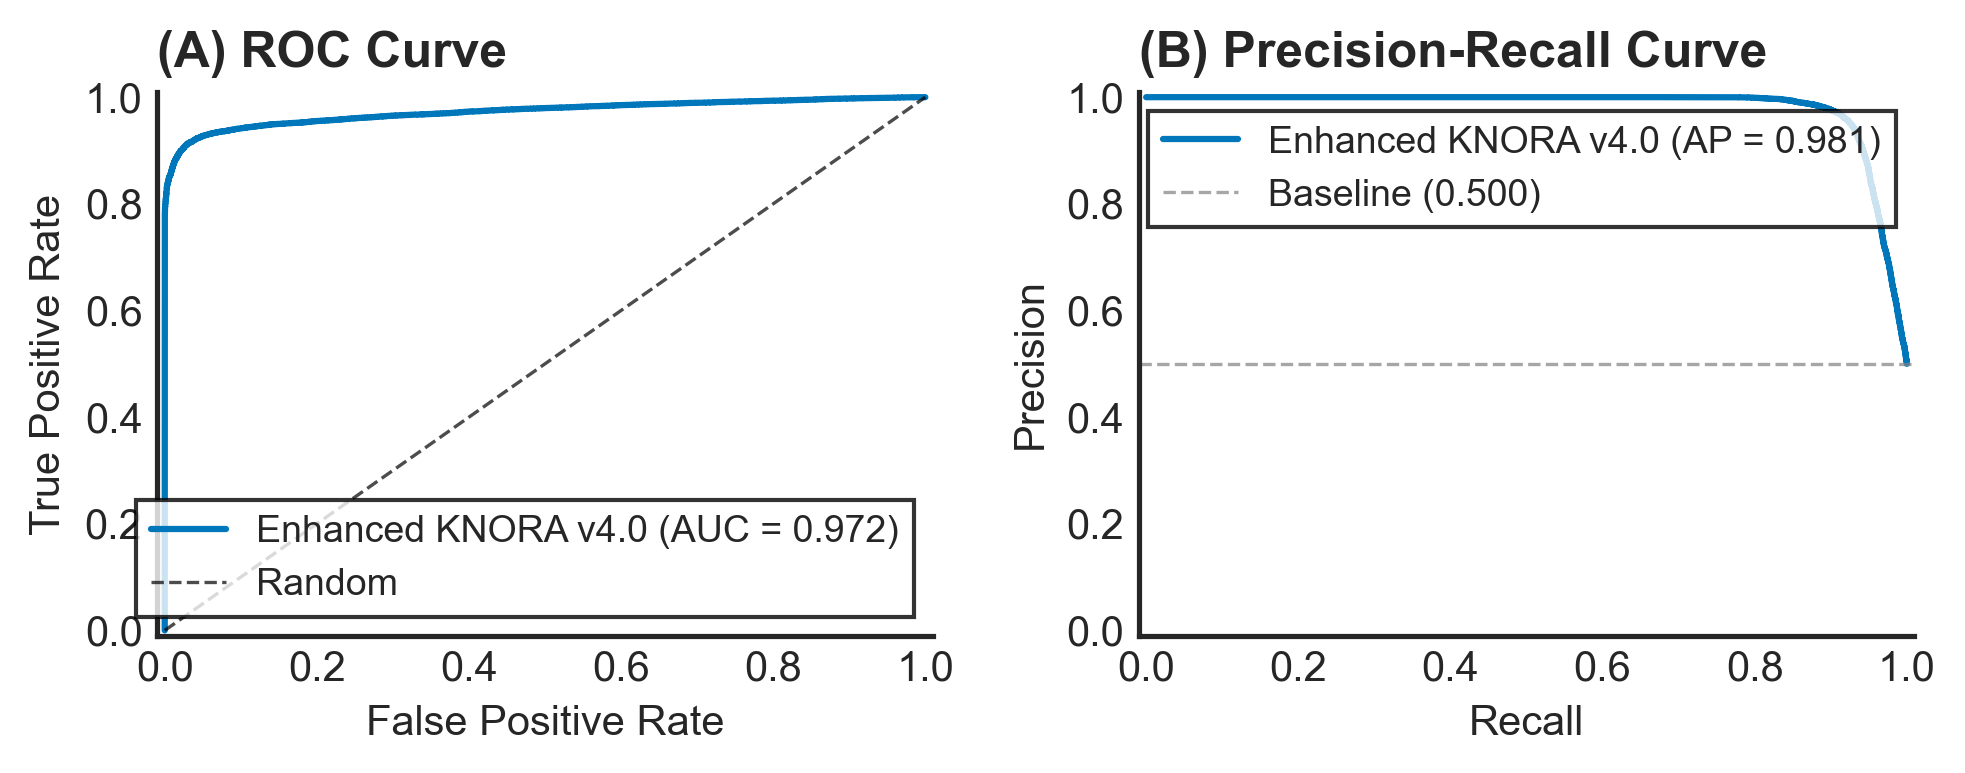
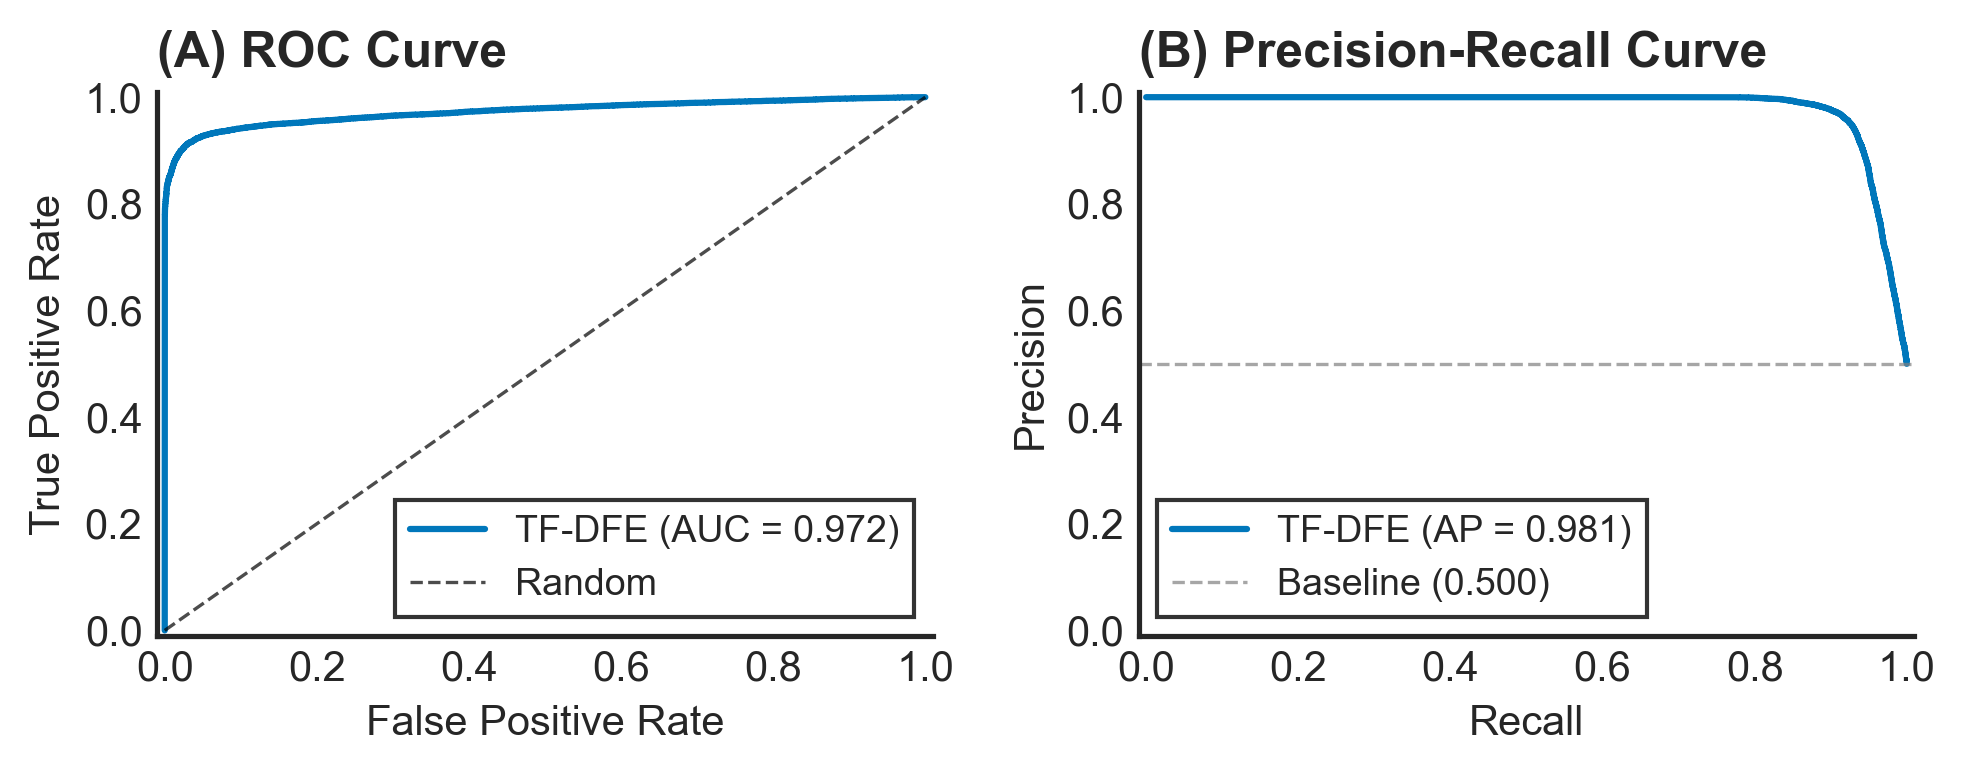
Update legend positions and font sizes in various plots for better readability

diff --git a/src/08_tda_fuzzy_ensemble.py b/src/08_tda_fuzzy_ensemble.py
@@ -760,7 +760,7 @@ def compute_pairwise_diversity(
         annot_kws={"size": 4},
     )
     axes[0].set_title(
-        "(A) Q-Statistic\n(−1=diverse, +1=correlated)", fontweight="bold", loc="left"
+        "(A) Q-Statistic\n(−1=diverse, +1=correlated)", fontweight="bold", loc="left", fontsize=9
     )
     plt.setp(
         axes[0].get_xticklabels(),
@@ -785,6 +785,7 @@ def compute_pairwise_diversity(
         "(B) Pairwise Disagreement Rate\n(higher=more diverse)",
         fontweight="bold",
         loc="left",
+        fontsize=9
     )
     plt.setp(
         axes[1].get_xticklabels(),
@@ -1739,7 +1740,7 @@ def plot_roc_pr_curves(y_true, y_pred_proba, model_name, output_dir):
     ax1.set_xlabel("False Positive Rate")
     ax1.set_ylabel("True Positive Rate")
     ax1.set_title("(A) ROC Curve", fontweight="bold", loc="left")
-    ax1.legend(loc="lower right", frameon=True, fancybox=False, edgecolor="black")
+    ax1.legend(loc="best", frameon=True, fancybox=False, edgecolor="black")
     ax1.set_xlim([-0.01, 1.01])
     ax1.set_ylim([-0.01, 1.01])
     ax1.grid(False)
@@ -1764,7 +1765,7 @@ def plot_roc_pr_curves(y_true, y_pred_proba, model_name, output_dir):
     ax2.set_xlabel("Recall")
     ax2.set_ylabel("Precision")
     ax2.set_title("(B) Precision-Recall Curve", fontweight="bold", loc="left")
-    ax2.legend(loc="upper right", frameon=True, fancybox=False, edgecolor="black")
+    ax2.legend(loc="lower left", frameon=True, fancybox=False, edgecolor="black")
     ax2.set_xlim([-0.01, 1.01])
     ax2.set_ylim([-0.01, 1.01])
     ax2.grid(False)
@@ -1850,7 +1851,7 @@ def plot_tsne(X, y, title, output_dir):
     ax.set_ylabel("t-SNE Dimension 2")
     ax.set_title(title, fontweight="bold")
     ax.legend(
-        title="Class", loc="best", frameon=True, fancybox=False, edgecolor="black"
+        title="Class", bbox_to_anchor=(1.05, 1), loc="upper left", frameon=True, fancybox=False, edgecolor="black"
     )
     plt.tight_layout()
     plt.savefig(output_dir / "Fig_tSNE_TFDFE.png", dpi=FIG_DPI, bbox_inches="tight")
@@ -1996,7 +1997,7 @@ class TFDFEvaluator:
         ax1.set_xlim([-0.02, 1.02])
         ax1.set_ylim([-0.02, 1.02])
         ax1.set_title("Calibration Plot", fontweight="bold", loc="left")
-        ax1.legend(loc="upper left", frameon=True, fancybox=False, edgecolor="black")
+        ax1.legend(loc="best", frameon=True, fancybox=False, edgecolor="black")
         ax1.grid(False)
         textstr = f"ECE = {ece:.4f}\nBrier = {brier:.4f}"
         props = dict(boxstyle="round", facecolor="white", edgecolor="gray", alpha=0.9)
@@ -2721,7 +2722,7 @@ def run_final_model():
     y_pred = model.predict(X_test, threshold=opt_threshold)
 
     metrics = compute_metrics(y_test, y_pred, y_pred_proba)
-    print_metrics_report(metrics, model_name="Enhanced KNORA v4.0 (TF-DFE)")
+    print_metrics_report(metrics, model_name="TF-DFE")
 
     # Selective prediction metrics
     print("\nStep 3A: Selective Prediction Metrics")
@@ -2756,9 +2757,9 @@ def run_final_model():
         print("  Saved: selective_prediction_metrics.csv")
 
     print("\nStep 4: Generate Analysis Figures")
-    plot_roc_pr_curves(y_test, y_pred_proba, "Enhanced KNORA v4.0", Config.OUTPUT_DIR)
+    plot_roc_pr_curves(y_test, y_pred_proba, "TF-DFE", Config.OUTPUT_DIR)
     plot_confusion_matrix(y_test, y_pred, "TF-DFE", Config.OUTPUT_DIR)
-    plot_tsne(X_test, y_test, "TF-DFE v4.0 Feature Space Separation", Config.OUTPUT_DIR)
+    plot_tsne(X_test, y_test, "TF-DFE Feature Space Separation", Config.OUTPUT_DIR)
 
     # SHAP analysis —: use model OBJECT not string name
     shap_model = None
@@ -2797,8 +2798,8 @@ def run_final_model():
     ece, brier, calibration_bins = TFDFEvaluator.plot_calibration_curve(
         y_test_arr,
         y_pred_proba,
-        Config.OUTPUT_DIR,
-        model_name="Enhanced KNORA v4.0 (TF-DFE)",
+        output_dir=Config.OUTPUT_DIR,
+        model_name="TF-DFE",
         n_bins=10,
     )
     metrics["ece"] = ece
@@ -2823,7 +2824,7 @@ def run_final_model():
         y_test_arr,
         y_pred,
         y_pred_baseline,
-        model1_name="Enhanced KNORA v4.0",
+        model1_name="TF-DFE",
         model2_name="Baseline Ensemble",
         output_dir=Config.OUTPUT_DIR,
     )
@@ -2967,7 +2968,7 @@ def run_final_model():
     predictions_df.to_csv(Config.OUTPUT_DIR / "final_predictions.csv", index=False)
 
     with open(Config.OUTPUT_DIR / "final_report.txt", "w", encoding="utf-8") as rf:
-        rf.write("TF-DFE v4.0 Final Analysis Report\n")
+        rf.write("TF-DFE Final Analysis Report\n")
         rf.write("All 7 Fixes + Supervisor Changes 1, 2, 3 Applied\n\n")
         rf.write("Change Summary:\n")
         rf.write("  FIX 1–7 (retained from v3)\n")

diff --git a/src/10_exploratory_data_analysis.py b/src/10_exploratory_data_analysis.py
@@ -754,18 +754,18 @@ for idx, feature in enumerate(structural_continuous):
     axes[idx].set_title(
         f"{chr(65+idx)}) {feature}", fontsize=12, fontweight="bold", pad=15
     )
-    axes[idx].legend(frameon=True, fancybox=True, shadow=True)
+    axes[idx].legend(loc="best", frameon=True, fancybox=True, shadow=True)
     axes[idx].grid(False)
 
     # Statistical test
     stat, pval = mannwhitneyu(benign_vals, pathogenic_vals)
     pval_text = f"p < 0.001" if pval < 0.001 else f"p = {pval:.3f}"
     axes[idx].text(
-        0.95,
+        0.5,
         0.95,
         pval_text,
         transform=axes[idx].transAxes,
-        ha="right",
+        ha="center",
         va="top",
         fontsize=9,
         fontweight="bold",
@@ -824,7 +824,7 @@ for idx, feature in enumerate(structural_binary):
     )
     axes[idx].set_xticks(x_pos)
     axes[idx].set_xticklabels(["Benign", "Pathogenic"])
-    axes[idx].legend(frameon=True, fancybox=True, shadow=True)
+    axes[idx].legend(loc="best", frameon=True, fancybox=True, shadow=True)
     axes[idx].grid(False)
 
     # Chi-square test
@@ -832,11 +832,11 @@ for idx, feature in enumerate(structural_binary):
     chi2, pval, dof, expected = chi2_contingency(contingency_counts)
     pval_text = f"p < 0.001" if pval < 0.001 else f"p = {pval:.3f}"
     axes[idx].text(
-        0.95,
+        0.5,
         0.95,
         pval_text,
         transform=axes[idx].transAxes,
-        ha="right",
+        ha="center",
         va="top",
         fontsize=9,
         fontweight="bold",

diff --git a/src/09_reviewer_experiments.py b/src/09_reviewer_experiments.py
@@ -450,7 +450,7 @@ def plot_combined_roc_pr(curve_data, output_dir, filename="Fig_All_Models_ROC_PR
     ax1.set_xlabel("False Positive Rate")
     ax1.set_ylabel("True Positive Rate")
     ax1.set_title("(A) ROC Curves", fontweight="bold", loc="left")
-    ax1.legend(loc="lower right", fontsize=6, frameon=True, edgecolor="black")
+    ax1.legend(loc="best", fontsize=6, frameon=True, edgecolor="black")
     ax1.grid(False)
     for i, (name, (y_true, proba)) in enumerate(curve_data.items()):
         precision, recall, _ = precision_recall_curve(y_true, proba)
@@ -637,6 +637,7 @@ def run_diversity_analysis(output_dir):
         f"{'PASS' if q_target_pass else 'FAIL'}: target < 0.50",
         fontweight="bold",
         loc="left",
+        fontsize=9,
     )
     plt.setp(
         axes[0].get_xticklabels(),
@@ -663,6 +664,7 @@ def run_diversity_analysis(output_dir):
         f"{'PASS' if dis_target_pass else 'FAIL'}: target > 0.05",
         fontweight="bold",
         loc="left",
+        fontsize=9,
     )
     plt.setp(
         axes[1].get_xticklabels(),